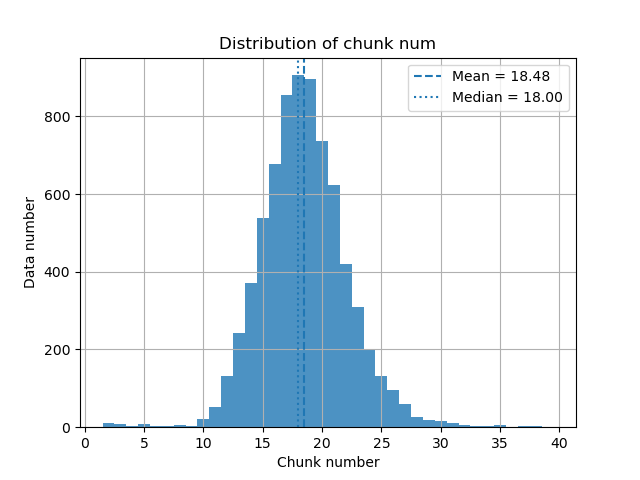
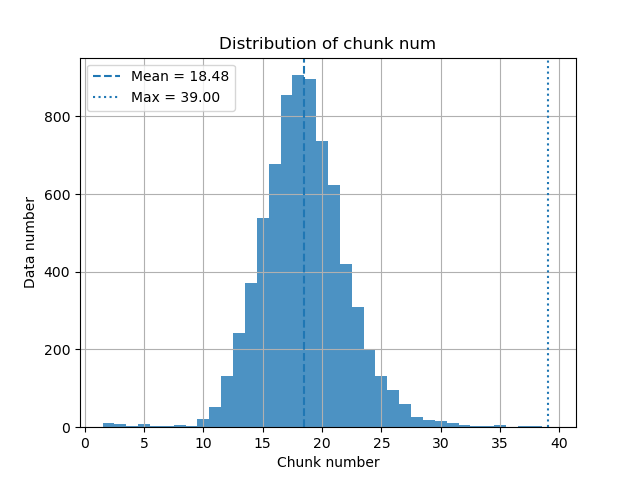
update

Changed region(s): [[0.6875, 0.125, 0.9062, 0.25], [0.1875, 0.125, 0.375, 0.2188]]

diff --git a/data_check.py b/data_check.py
@@ -139,7 +139,8 @@ bins = range(min(data), max(data) + 2)
 
 plt.hist(data, bins=bins, align='left', alpha=0.8)
 plt.axvline(mean_val, linestyle='--', label=f"Mean = {mean_val:.2f}")
-plt.axvline(median_val, linestyle=':', label=f"Median = {median_val:.2f}")
+# plt.axvline(median_val, linestyle=':', label=f"Median = {median_val:.2f}")
+plt.axvline(max(data), linestyle=':', label=f"Max = {max(data):.2f}")
 
 plt.title("Distribution of chunk num")
 plt.xlabel("Chunk number")
